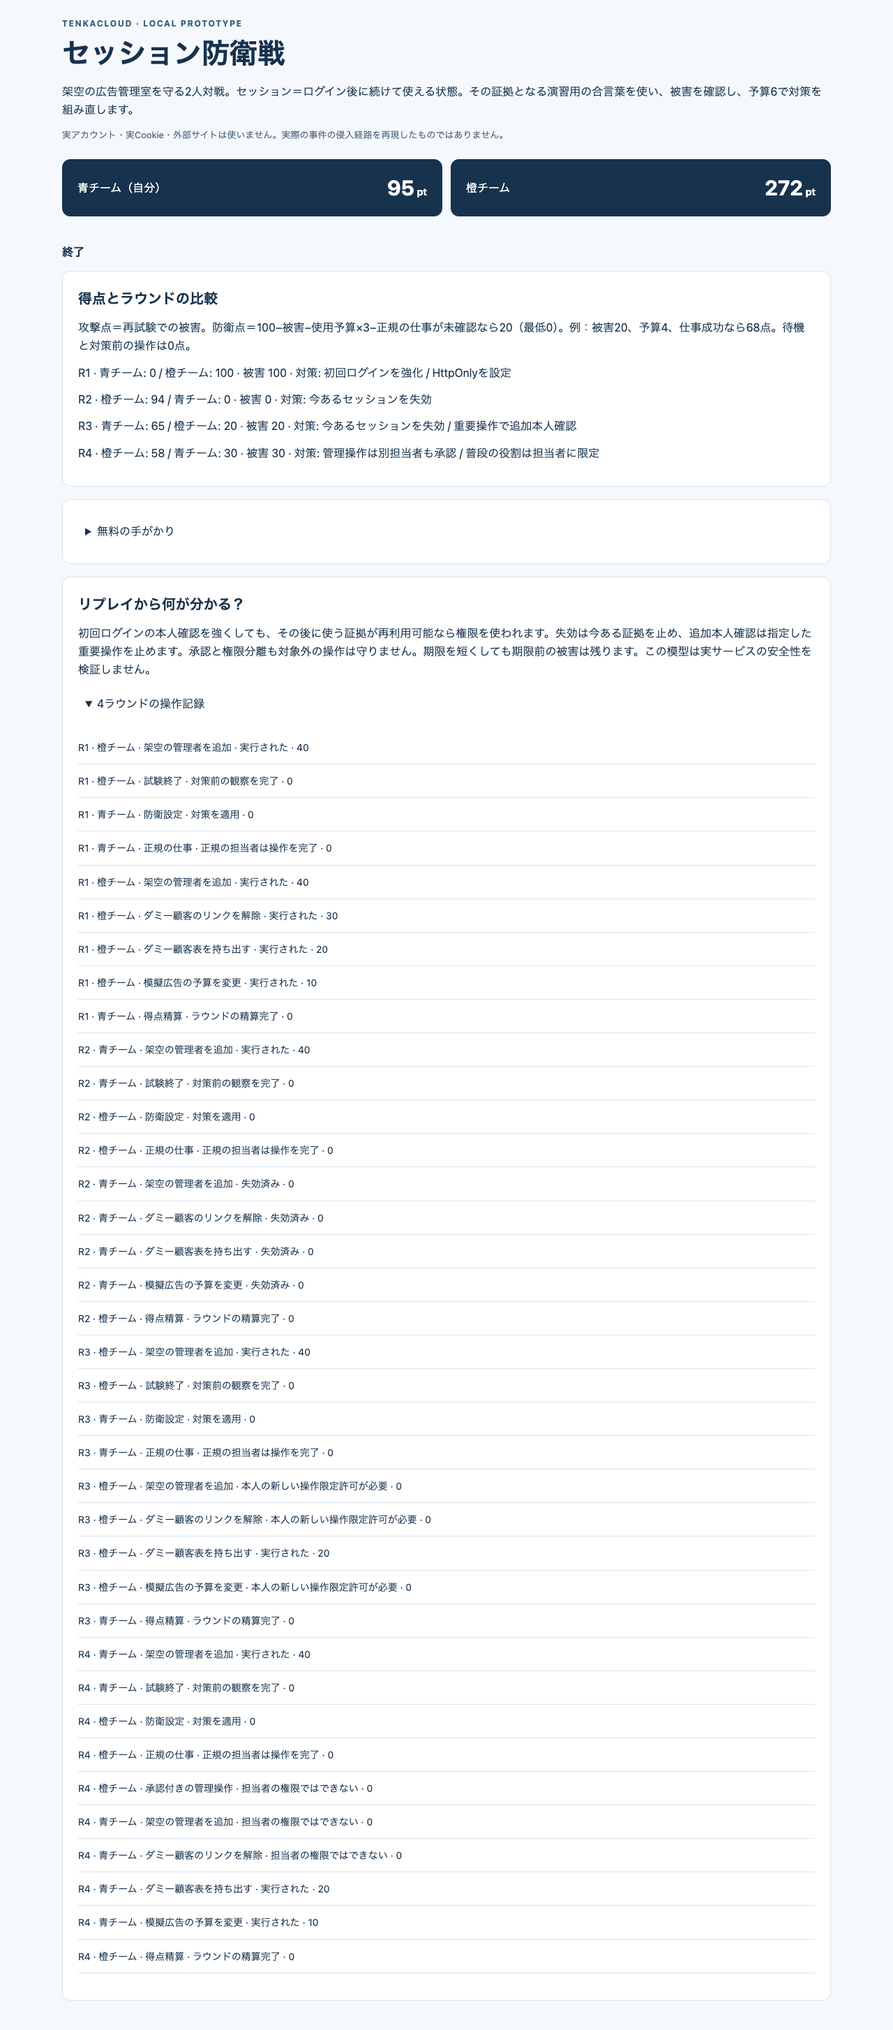
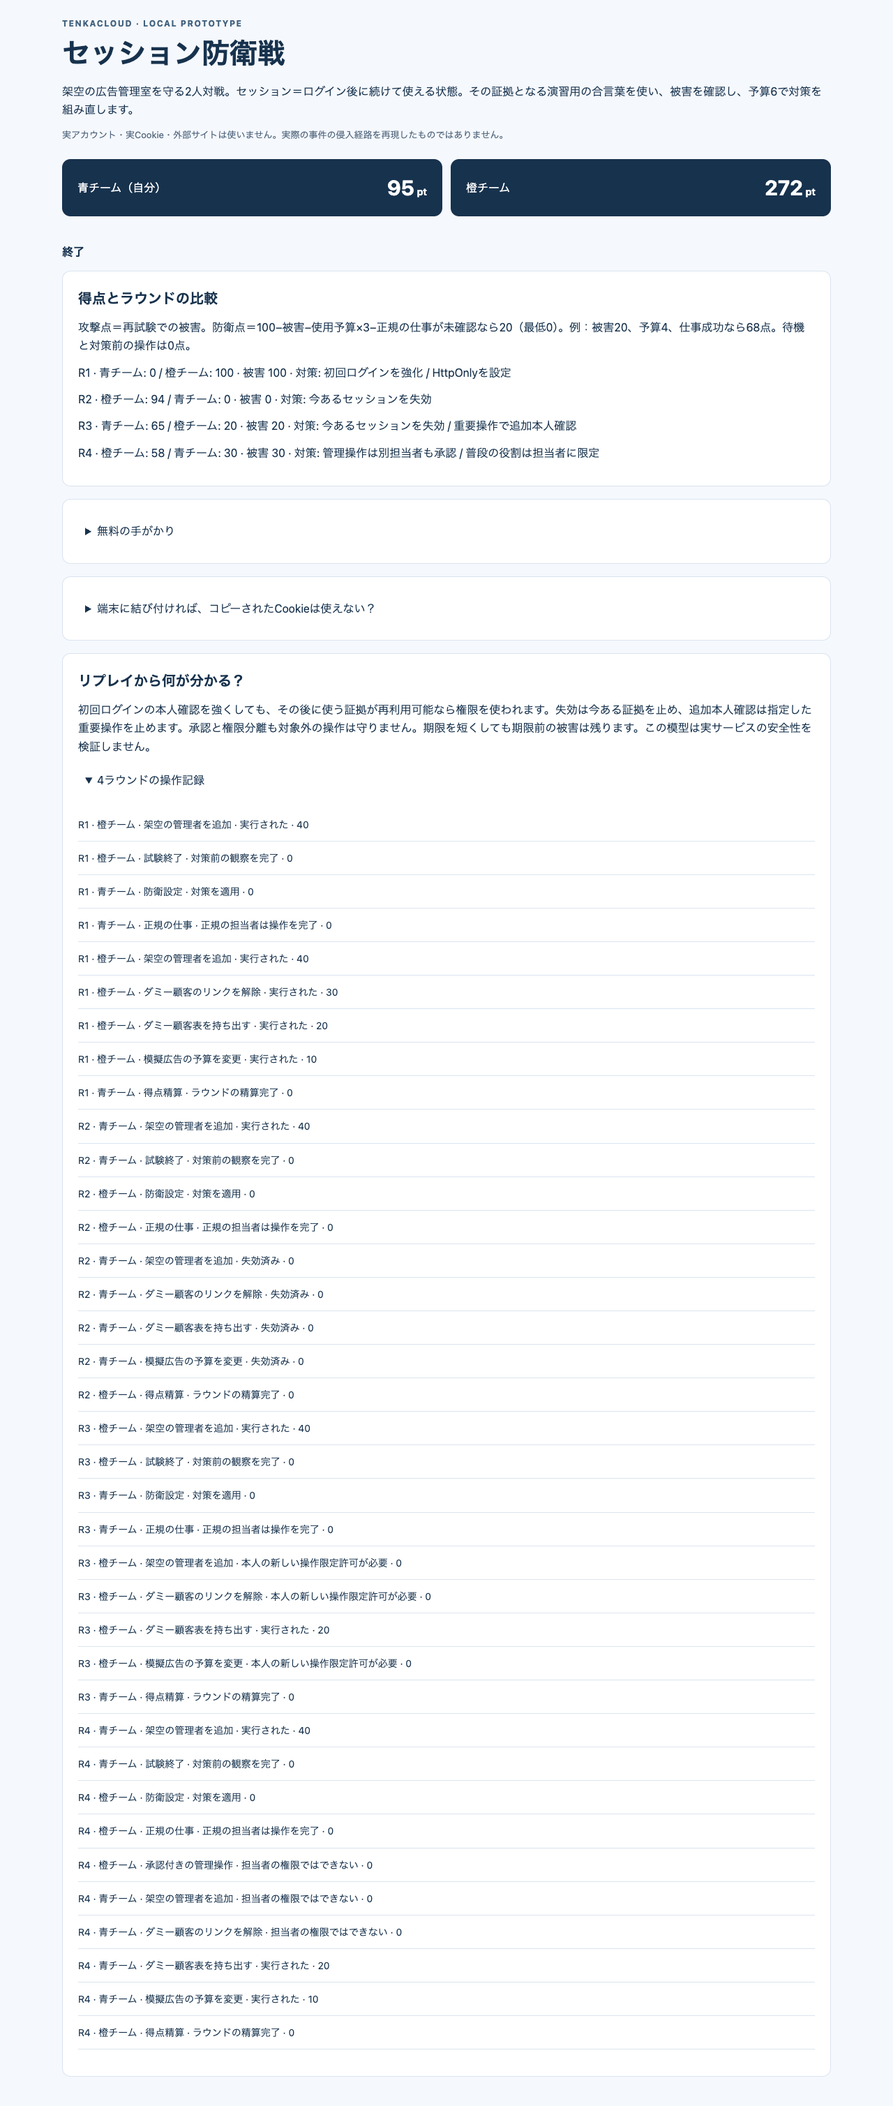
Prepare session defense native contract and bounded capacity checks

diff --git a/battles/_session-defense/portal/StatusPanel.tsx b/battles/_session-defense/portal/StatusPanel.tsx
@@ -79,6 +79,11 @@ export function Game({client,locale="ja"}:{client:PortalCoordinationClient;local
     <section><h2>{t("得点とラウンドの比較","Score and round comparison")}</h2><p>{t("攻撃点＝再試験での被害。防衛点＝100−被害−使用予算×3−正規の仕事が未確認なら20（最低0）。例：被害20、予算4、仕事成功なら68点。待機と対策前の操作は0点。","Attack points = retest damage. Defense points = max(0, 100 − damage − budget × 3 − 20 if legitimate work was not checked). Example: damage 20, cost 4, work succeeds → 68 points. Waiting and baseline moves award zero.")}</p>
       {p.results.map(r=><p key={r.round}>R{r.round} · {p.names[r.defender]}: {r.defensePoints} / {p.names[r.attacker]}: {r.attackPoints} · {t("被害","damage")} {r.damage} · {t("対策","controls")}: {r.controls.map(c=>controls[c][en?1:0]).join(" / ")||t("なし","none")}</p>)}</section>
     <section><details><summary>{t("無料の手がかり","Free clues")}</summary><p>{t("1 · 仕組み：初回ログインは本人かを確かめます。その後は証拠を照合します。記録で『実行された』と『失効済み』などを比べてください。","1 · Mechanism: initial login checks who you are; later requests present evidence. Compare executed and denied results in the log.")}</p><p>{t("2 · 小さい例：被害が30から20へ減り、予算を1使ったなら、防衛点は10−3＝7増えます。正規の仕事が通るかも一緒に確認します。","2 · Small example: reducing damage from 30 to 20 at a cost of 1 improves defense points by 10 − 3 = 7. Check that legitimate work still succeeds.")}</p><p>{t("3 · 手順：攻撃役は演習用の証拠をコピーして管理操作を試す。防衛役は記録と各対策の説明から組合せを選ぶ。再試験では同じ操作の結果と、正規の仕事の結果を比較する。","3 · Procedure: the attacker copies the lab evidence and tries an operation. The defender reads the log and control descriptions, then chooses a combination. Compare the same operation and legitimate work in the retest.")}</p></details></section>
+    <section><details><summary>{t("端末に結び付ければ、コピーされたCookieは使えない？","Can device binding stop copied cookies?")}</summary>
+      <p>{t("DBSCは短期限のCookieを更新するとき、元の端末にある秘密鍵で証明させる仕組み。Cookieだけを別端末へコピーしても更新を続けられません。ただし、期限が残る間の利用や、対応ブラウザ・サービスの保護対象・強制条件は別に確認が必要です。このゲームはDBSC未実装で、15秒の期限だけをDBSCとは呼びません。","DBSC requires proof of a key held on the original device to renew short-lived cookies. Copying cookies alone does not allow continued renewal elsewhere. An unexpired-cookie window, browser support, protected service scope and enforcement still matter. This game does not implement DBSC; a 15-second expiry alone is not DBSC.")}</p>
+      <p>{t("元の端末上でログイン済みブラウザや鍵の機能を使われる危険は残ります。DBSCは端末が健全であることや、特定の管理端末であることの保証ではありません。端末管理がなかったから実事件が起きた、とも断定できません。実際の端末侵害やCookie読取は実装していません。","Activity through the authenticated browser or key on the original device remains a risk. DBSC does not guarantee device health or the identity of a particular managed device. The real incident cannot be attributed to absent device management from this evidence. No actual device compromise or cookie reading is implemented.")}</p>
+      <p><a href="https://developer.chrome.com/docs/web-platform/device-bound-session-credentials">{t("Chromeの仕組み説明","Chrome mechanism guide")}</a> · <a href="https://w3c.github.io/webappsec-dbsc/#non-goals">{t("W3Cの非目標","W3C non-goals")}</a></p>
+    </details></section>
     {p.phase==="finished"&&<section><h2>{t("リプレイから何が分かる？","What does the replay show?")}</h2><p>{t("初回ログインの本人確認を強くしても、その後に使う証拠が再利用可能なら権限を使われます。失効は今ある証拠を止め、追加本人確認は指定した重要操作を止めます。承認と権限分離も対象外の操作は守りません。期限を短くしても期限前の被害は残ります。この模型は実サービスの安全性を検証しません。","A strong initial login does not prevent reuse of issued bearer evidence. Revocation stops existing evidence; fresh owner checks protect specified operations. Approval and role separation leave out-of-scope actions available. Short expiry does not undo damage before expiry. This model does not validate a real service's security.")}</p><details><summary>{t("4ラウンドの操作記録","Four-round replay")}</summary><ul className="sd-log">{p.events.map((e,i)=><li key={i}>R{e.round} · {p.names[e.actor]} · {actions[e.action as Action]?.[en?1:0]??eventNames[e.action]?.[en?1:0]??e.action} · {results[e.result]?.[en?1:0]??e.result} · {e.damage}</li>)}</ul></details></section>}
   </main>;
 }

diff --git a/battles/_session-defense/tests/capacity.test.ts b/battles/_session-defense/tests/capacity.test.ts
@@ -1,0 +1,54 @@
+import { expect, test } from "bun:test";
+import { readFileSync } from "node:fs";
+import { initialState, applyOp, validateOp, projectForTeam, roles, teamScores, tick } from "../game/reducer.ts";
+import { ACTIONS, CONTROLS, type Control, type Op, type State } from "../game/types.ts";
+
+const metadata = JSON.parse(readFileSync(new URL("../docs/native-metadata.json", import.meta.url), "utf8"));
+const budget: { baseBytes: number; bytesPerTeam: number } = metadata.interTeamCoordination.stateBudget;
+const ids = ["a".repeat(80), "b".repeat(80)];
+const bytes = (s: State) => Buffer.byteLength(JSON.stringify(s));
+const choices = (Object.keys(CONTROLS) as Control[]).reduce<Control[][]>((sets, key) => [...sets, ...sets.map(set => [...set, key])], [[]])
+  .filter(set => set.reduce((sum, key) => sum + CONTROLS[key], 0) <= 6);
+
+test("fixed two-team native metadata and bounded host inputs", () => {
+  expect(metadata.runtime).toEqual({ provider: "local", engine: "bun", entry: "coordination/session-defense.ts" });
+  expect(budget).toEqual({ baseBytes: 0, bytesPerTeam: 16384 });
+  for (const count of [0, 1, 3, 80]) expect(() => initialState({ eventId: "x", teamIds: ids.concat("c").slice(0, count), matchSecret: "f".repeat(64) })).toThrow();
+  for (const extra of [{ eventId: "x".repeat(81) }, { matchSecret: "f".repeat(65) }, { teamNames: { [ids[0]!]: "x".repeat(81) } }])
+    expect(() => initialState({ eventId: "x", teamIds: ids, matchSecret: "f".repeat(64), ...extra })).toThrow();
+});
+
+test("every legal defense combination: all four rounds, receipts, maximum host fields, JSON restore", () => {
+  let peak = 0, peakRoute = "", traces = 0;
+  for (const controls of choices) for (const route of ["early-finish", "owner-first", "expired", "timeout"] as const) {
+    let s = initialState({ eventId: "e".repeat(80), teamIds: ids, teamNames: Object.fromEntries(ids.map(id => [id, "\u0000".repeat(80)])), matchSecret: "f".repeat(64) });
+    const measure = () => {
+      const n = bytes(s); if (n > peak) { peak = n; peakRoute = `${controls.join(",")}/${route}`; }
+      expect(n).toBeLessThanOrEqual(budget.baseBytes + 2 * budget.bytesPerTeam);
+      const restored: State = JSON.parse(JSON.stringify(s));
+      for (const id of ids) expect(projectForTeam(restored, id)).toEqual(projectForTeam(s, id));
+      expect(teamScores(restored)).toEqual(teamScores(s)); s = restored;
+    };
+    function act(id: string, body: Record<string, unknown>) {
+      const op = { ...body, id: `req_${String(s.revision).padStart(60, "0")}`, revision: s.revision } as Op;
+      expect(validateOp(s, id, op)).toEqual({ ok: true }); s = applyOp(s, id, op); measure();
+      // An exact replay preserves receipts, state and scores after the storage boundary.
+      expect(applyOp(s, id, op)).toEqual(s);
+    }
+    measure(); act(ids[0]!, { kind: "ready" }); act(ids[1]!, { kind: "ready" });
+    for (let round = 1; round <= 4; round++) {
+      const { attacker, defender } = roles(s);
+      for (const action of Object.keys(ACTIONS)) act(attacker, { kind: "try", action, token: s.leak });
+      act(attacker, { kind: "finish" }); act(defender, { kind: "defend", controls });
+      if (route === "expired") { s = tick(s, s.now + 15_000); measure(); }
+      if (route === "owner-first") act(defender, { kind: "legitimate" });
+      for (const action of Object.keys(ACTIONS)) act(attacker, { kind: "try", action, token: s.leak, proof: "x".repeat(100), approval: "y".repeat(100) });
+      if (route === "timeout") { act(defender, { kind: "legitimate" }); s = tick(s, s.deadline); measure(); }
+      else { act(attacker, { kind: "finish" }); if (route !== "owner-first") act(defender, { kind: "legitimate" }); }
+    }
+    expect(s.phase).toBe("finished"); expect(s.results).toHaveLength(4);
+    expect(Object.keys(s.receipts)).toHaveLength(route === "timeout" ? 46 : 50);
+    expect(s.events.length).toBeLessThanOrEqual(56); traces++;
+  }
+  console.info(JSON.stringify({ traces, combinations: choices.length, peak, peakRoute, declaredTwoTeamBytes: 2 * budget.bytesPerTeam }));
+});

diff --git a/battles/_session-defense/game/reducer.ts b/battles/_session-defense/game/reducer.ts
@@ -12,7 +12,9 @@ export const cost = (cs: readonly Control[]) => cs.reduce((n,c) => n + CONTROLS[
 
 export function initialState(ctx: Context): State {
   if (ctx.teamIds.length !== 2 || new Set(ctx.teamIds).size !== 2 || ctx.teamIds.some(t => !/^[a-zA-Z0-9_-]{1,80}$/.test(t))) throw new Error("Exactly two distinct team IDs are required");
-  if (!ctx.matchSecret || !/^[a-f0-9]{64,}$/.test(ctx.matchSecret)) throw new Error("Server-generated matchSecret is required");
+  if (!ctx.matchSecret || !/^[a-f0-9]{64}$/.test(ctx.matchSecret)) throw new Error("Server-generated matchSecret is required");
+  if (!/^[a-zA-Z0-9_-]{1,80}$/.test(ctx.eventId)) throw new Error("Bounded host event ID is required");
+  if (ctx.teamIds.some(id => ctx.teamNames?.[id] !== undefined && (typeof ctx.teamNames[id] !== "string" || ctx.teamNames[id]!.length > 80))) throw new Error("Host team names must fit 80 UTF-16 units");
   const ids = [...ctx.teamIds].sort();
   return { schema:1, eventId:ctx.eventId, secret:ctx.matchSecret, ids, names:Object.fromEntries(ids.map(t => [t,ctx.teamNames?.[t] ?? t])), ready:[],revision:0,round:1,phase:"waiting",now:0,deadline:0,scores:Object.fromEntries(ids.map(t=>[t,0])),controls:[],sessions:[],grants:[],leak:"",baselineDamage:0,damage:0,done:[],tickets:0,legitimate:false,attackFinished:false,desk:freshDesk(),events:[],results:[],receipts:{} };
 }

diff --git a/battles/_session-defense/docs/NATIVE-CONTRACT.ja.md b/battles/_session-defense/docs/NATIVE-CONTRACT.ja.md
@@ -1,0 +1,21 @@
+# session-defense 専用の本体連携契約（共有変更の調整前）
+
+本体・カタログ共通コードはπ担当と競合するため未編集。こちらの専用ブランチは `feat/session-defense-native`、カタログworktreeは `/Users/susumu/Documents/Codex/2026-10-07/task-3/session-native`。試作PR901のbranch/headを変えない。
+
+共有所有者はπ担当（`01a114fa-bd26-70f1-aa78-e506398a90dd`）。本体 `scripts/local-host/coordination-runtime.ts`、`browser-metadata.ts`、`service.ts`、`coordination.ts`、関連host tests、およびカタログ `SCHEMA.json`、`scripts/validate-problems.ts` をこちらでは編集しない。親がこの通常回答を読み取り、π担当へ契約を渡す。別スレッドへの直接送信は行わない。
+
+この競技のIDは `session-defense`、categoryはBattle。runtimeは `local/bun`、entryおよびinterTeamCoordination.pluginは `coordination/session-defense.ts`、StatusPanelは `portal/StatusPanel.tsx`。既存hookの絶対teamScoresを採用し、新しい採点kind・exercise API・Docker verifier・CloudFormationは追加しない。独立の `docs/native-metadata.json` は登録候補であり、共通validatorと本体allowlistの対応確認後に正規ディレクトリのmetadataへ移す。正規のreviewed problem pathは `battles/session-defense`、UI public moduleは同pathのPortalのみ（dev harness・reducer・private stateをブラウザbundleへ取り込まない）。
+
+rosterは正確に2チーム。作成・prepare/start・開始後のチーム追加で不正rosterを先に拒否し、pluginの初期化例外まで進めない。既存暗号Battleの多数チーム制約は維持する。同じeventは既存のcoordination Battle1件制約を維持するため、πとこの競技を同一eventへ同時選択しない。
+
+event/team/jobは本体の認証済みcontextで決まり、operationのpayloadから指定しない。`lab_session_…` は模擬管理アプリだけの証拠。`lab_grant_…` はserver privateで、別席・別eventへ出さない。`dev_seat_…`を発行するdev harnessは本体へ取り込まない。初期秘密は本体のmatchSecretを使う。
+
+状態schema1、JSON復元可能。状態・絶対scoreの差分・履歴は既存LocalCoordination/HostStoreの同時transactionを使う。receiptは同一操作の再送とHTTP idempotency両方を確認する。ホストclock、event終了、lock、停止中の時間経過を変えない。正常停止時のflushと再起動時のSQLite復元を実UI経路で検査する。
+
+専用pluginは `stateSchemaVersion:1`、`tickOnRequest:true`。eventIdとteamIdはASCII 1〜80文字、teamNameは80 UTF-16単位以内、matchSecretは本体発行の64桁hexを要求する。本体の26文字ULID/80単位displayName/32バイト秘密と互換。opはstrictな `id`（ASCII最大64）、`revision`、`kind` に加え、その操作専用fieldだけを受理する。teamId/eventId/jobId/時刻/score/verified等をpayloadへ追加すると拒否する。projectForTeamはteamの所属を確認し、攻撃役にだけ意図した演習用leakを渡す。private secret/sessions/grants/receiptsは渡さない。
+
+候補stateBudgetは `{baseBytes:0, bytesPerTeam:16384}`。対応範囲は正確に2チーム、計32,768 bytesであり、3チーム以上への線形予測ではない。`tests/capacity.test.ts` は80文字ID・80単位JSON escape最大の名前・80文字event・64文字request IDを使い、全74の合法control組合せ×4経路=296試合の全transitionを測定。通常経路50receipt、timeout経路46receipt。最大27,065 bytes。JSON復元・私有projection・score・同一再送も各transitionで比較した。任意のmixに対する絶対最大値と称さず、同時に入力長・4round・券数・history数の上限を固定する。
+
+こちらの独立所有範囲: `battles/_session-defense/**`（登録後は`battles/session-defense/**`）、セッション専用の認可・metadata・容量・DBSC説明テスト、専用本体 `scripts/local-host/tests/session-defense-*.ts`、セッション固有の連携文書。共有pathは合意まで編集しない。
+
+完了の証拠: 主催者UIでこの競技を選んで2チームevent作成・準備・開始 → 各チームの本体ログインからStatusPanelを操作 → 公式順位・履歴とgame score一致 → hostを正常停止し同じSQLiteで再起動 → チーム再ログイン、round/期限/receipt/得点継続、同一操作の再送で二重加点なし。別team/event、第三team、開始前/終了後/lockの拒否、既存暗号Battleの回帰も必要。

diff --git a/battles/_session-defense/docs/DBSC.ja.md b/battles/_session-defense/docs/DBSC.ja.md
@@ -1,0 +1,11 @@
+# 端末に結び付けるセッションと、元の端末上の操作
+
+Cookieはブラウザが保存して送る小さなデータ。ログイン済みであることの証拠をCookieへ入れるサービスもある。DBSC（Device Bound Session Credentials）は、短い期限のCookieを更新するとき、元の端末にある秘密鍵を使えることを確かめる仕組みである。秘密鍵＝許可の証明を作るための秘密の値で、公開鍵＝その証明を確認するための値。実装では、秘密鍵を端末の保護された場所に置き、外へコピーされにくくする。Cookieだけを別端末へコピーしても、同じ鍵による更新を続けられない。[Chromeの開発者説明](https://developer.chrome.com/docs/web-platform/device-bound-session-credentials)
+
+ただし「Cookieをコピーした瞬間に、必ず全操作が拒否される」とは限らない。短寿命Cookieがまだ有効な時間、そのサービスの保護対象、そのブラウザと鍵保存の対応、実際のsession登録・更新の強制条件を確認する必要がある。現在の演習はDBSCプロトコルを実装しておらず、短期限の対策だけでDBSCを実装したとも説明しない。
+
+別端末への持ち出しと、元の端末上での操作は異なる。DBSCの非目標には、攻撃者が元の端末にいる間のブラウザsessionへの一時アクセスが含まれる。端末の鍵を外へ持ち出せなくても、元の端末上で署名を行わせたり、ログイン済みの画面を操作されたりする問題は残る。また、DBSCは特定の管理端末の識別や、その端末が健全であることを保証する仕組みではない。[W3Cの非目標](https://w3c.github.io/webappsec-dbsc/#non-goals)
+
+したがって「端末管理をしていなかったから事件が起きた」とも断定しない。管理端末の条件を要求する仕組み、sessionを端末鍵へ結び付ける仕組み、重要操作の本人確認と承認、元の端末上の侵害対策は、それぞれ守る範囲を確認する必要がある。今回の実事件の侵入原因は未特定。この競技は、既に提供された演習用の証拠を使う模型であり、本物の端末侵害・Cookie読取・署名操作は実装しない。
+
+確認日: 2026-10-07。対応ブラウザ/OSや提供時期の一覧は固定せず、実導入時に一次資料で確認する。

diff --git a/battles/_session-defense/docs/DBSC.md b/battles/_session-defense/docs/DBSC.md
@@ -1,0 +1,11 @@
+# Device binding and activity on the original device
+
+Cookies are small data items that a browser stores and sends. Some services place login evidence in them. Device Bound Session Credentials (DBSC) use proof of a device-held private key when renewing short-lived cookies. A private key creates a proof and a public key checks it. Protected key storage resists moving the private key elsewhere; copying cookies alone does not let another device continue renewing them. [Chrome developer guide](https://developer.chrome.com/docs/web-platform/device-bound-session-credentials)
+
+This is not a guarantee that every request is denied immediately when a cookie is copied. The unexpired cookie window, protected service scope, browser/key-storage support and enforced registration/refresh policy matter. This lab does not implement DBSC. Shortening a lifetime alone is not a DBSC implementation.
+
+Activity on the original device differs from reuse elsewhere. DBSC does not prevent temporary browser-session access while the attacker is resident on that device. A protected key may still be usable for local signing, and an authenticated browser may still be operated. DBSC also does not guarantee the identity of a particular managed device or that it is healthy. [W3C non-goals](https://w3c.github.io/webappsec-dbsc/#non-goals)
+
+Device admission policies, session key binding, sensitive-action confirmation/reviewer approval and defenses against local compromise have distinct scopes. None establish that the real incident occurred because device management was absent; its entry path is unknown. This game uses supplied lab evidence only and implements no actual device compromise, cookie reading or device signing.
+
+Sources checked 2026-10-07. Browser/OS availability is deliberately not frozen in the lesson; verify current primary sources for real deployments.

diff --git a/battles/_session-defense/README.ja.md b/battles/_session-defense/README.ja.md
@@ -29,6 +29,8 @@ make dev
 
 実ブラウザprofile、実Cookie、OSの資格情報保管、Google/Microsoftの認証、本番アカウント、フィッシング、マルウェア、任意URL攻撃、OSネットワーク設定は扱わない。ページが読み書きするのはこの演習プロセスのダミーデータだけ。
 
+[端末に結び付けるセッション（DBSC）の説明](docs/DBSC.ja.md): 別端末へのCookieの持ち出しと、元の端末上の操作は別の問題。DBSCは短期限Cookieの更新に端末鍵の証明を要求するが、元の端末の健全性を保証しない。このゲームはDBSC未実装。短期限だけをDBSCとは説明しない。
+
 ## 検証
 
 ```sh

diff --git a/battles/_session-defense/README.md b/battles/_session-defense/README.md
@@ -29,6 +29,8 @@ Passkeys, a second-device owner check and independent reviewer login are **simul
 
 There is no access to real browser profiles/cookies, OS credential stores, Google/Microsoft authentication, production accounts, phishing, malware, arbitrary URL targets or OS network settings. Only this lab process's dummy data is affected.
 
+See [device binding and DBSC](docs/DBSC.md): copying cookies elsewhere differs from activity on the original device. DBSC requires a device-key proof to renew short-lived cookies, but does not guarantee device health. This game does not implement DBSC; shortening expiry alone is not DBSC.
+
 ## Verify
 
 ```sh
